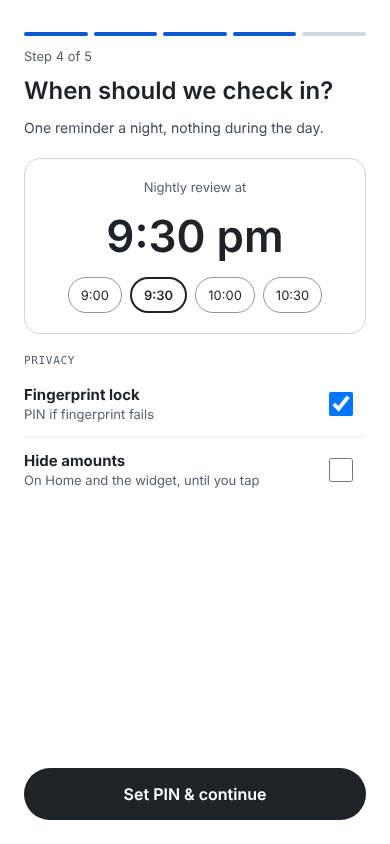
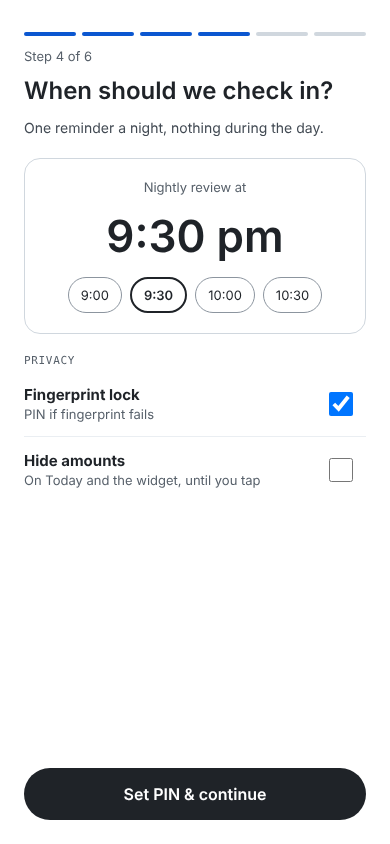
Wire unreachable reused screens and fix wording gaps
Budgets, Subscriptions, Spending map, Someone else paid, Settle up,
reminder preview, trip settle-up and Ask now open from v2 buttons.
Onboarding shows 6 steps, reused screens say Today instead of Home,
Filters use the Mine/Split/Not mine wording, and sample data that
contradicted other screens is corrected.

Claude-Session: https://claude.ai/code/session_019TWJhnqC3Tqk1LrQsxqSPf

diff --git a/expense-tracker/wireframes/v2/V2-Month-Spend.html b/expense-tracker/wireframes/v2/V2-Month-Spend.html
@@ -28,7 +28,7 @@ a{color:#0B57D0}a:hover{color:#08408F}
     </div>
 
     <div style="background: #FFFFFF; border: 1px solid #D0D7DE; border-radius: 16px; padding: 4px 14px; display: flex; flex-direction: column">
-      <div style="display: flex; justify-content: space-between; align-items: center; min-height: 48px"><span role="tablist" aria-label="Group by" style="display: flex; background: #EAEEF2; border-radius: 10px; padding: 3px; gap: 3px"><button type="button" role="tab" aria-selected="true" style="min-height: 40px; padding: 0 10px; border-radius: 8px; border: none; background: #FFFFFF; font: inherit; font-size: 13px; font-weight: 600; color: #1F2328">Category</button><button type="button" role="tab" aria-selected="false" style="min-height: 40px; padding: 0 10px; border-radius: 8px; border: none; background: transparent; font: inherit; font-size: 13px; color: #424A53">Merchant</button><button type="button" role="tab" aria-selected="false" style="min-height: 40px; padding: 0 10px; border-radius: 8px; border: none; background: transparent; font: inherit; font-size: 13px; color: #424A53">Account</button></span><button type="button" style="min-height: 44px; padding: 0 4px; border: none; background: transparent; font: inherit; font-size: 13px; font-weight: 600; color: #0B57D0">Edit budgets</button></div>
+      <div style="display: flex; justify-content: space-between; align-items: center; min-height: 48px"><span role="tablist" aria-label="Group by" style="display: flex; background: #EAEEF2; border-radius: 10px; padding: 3px; gap: 3px"><button type="button" role="tab" aria-selected="true" style="min-height: 40px; padding: 0 10px; border-radius: 8px; border: none; background: #FFFFFF; font: inherit; font-size: 13px; font-weight: 600; color: #1F2328">Category</button><button type="button" role="tab" aria-selected="false" style="min-height: 40px; padding: 0 10px; border-radius: 8px; border: none; background: transparent; font: inherit; font-size: 13px; color: #424A53">Merchant</button><button type="button" role="tab" aria-selected="false" style="min-height: 40px; padding: 0 10px; border-radius: 8px; border: none; background: transparent; font: inherit; font-size: 13px; color: #424A53">Account</button></span><a href="../reused-v1/Budgets.html" style="min-height: 44px; padding: 0 4px; border: none; background: transparent; font-size: 13px; font-weight: 600; color: #0B57D0; box-sizing: border-box; display: flex; align-items: center; justify-content: center; text-decoration: none">Edit budgets</a></div>
       <a href="V2-Money.html" style="display: flex; flex-direction: column; gap: 6px; min-height: 56px; justify-content: center; border-top: 1px solid #EAEEF2; color: #1F2328; text-decoration: none">
         <span style="display: flex; justify-content: space-between; font-size: 14px"><span style="font-weight: 600">Rent &amp; home</span><span>₹[x] · 38%</span></span>
         <span style="height: 8px; border-radius: 4px; background: #EAEEF2; display: flex"><span style="width: 38%; border-radius: 4px; background: #1F2328"></span></span>
@@ -53,8 +53,8 @@ a{color:#0B57D0}a:hover{color:#08408F}
     </div>
 
     <div style="display: grid; grid-template-columns: repeat(2, minmax(0, 1fr)); gap: 8px">
-      <button type="button" style="min-height: 56px; border-radius: 14px; background: #FFFFFF; border: 1px solid #D0D7DE; font: inherit; font-size: 14px; font-weight: 600; color: #1F2328">Subscriptions · [N]</button>
-      <button type="button" style="min-height: 56px; border-radius: 14px; background: #FFFFFF; border: 1px solid #D0D7DE; font: inherit; font-size: 14px; font-weight: 600; color: #1F2328">On the map</button>
+      <a href="../reused-v1/Recurring.html" style="min-height: 56px; border-radius: 14px; background: #FFFFFF; border: 1px solid #D0D7DE; font-size: 14px; font-weight: 600; color: #1F2328; box-sizing: border-box; display: flex; align-items: center; justify-content: center; text-decoration: none">Subscriptions · [N]</a>
+      <a href="../reused-v1/Spend-Map.html" style="min-height: 56px; border-radius: 14px; background: #FFFFFF; border: 1px solid #D0D7DE; font-size: 14px; font-weight: 600; color: #1F2328; box-sizing: border-box; display: flex; align-items: center; justify-content: center; text-decoration: none">On the map</a>
     </div>
   </div>
 

diff --git a/expense-tracker/wireframes/reused-v1/Txn-Filters.html b/expense-tracker/wireframes/reused-v1/Txn-Filters.html
@@ -51,13 +51,13 @@ a{color:#0B57D0}a:hover{color:#08408F}
       </div>
     </div>
     <div style="display: flex; flex-direction: column; gap: 8px">
-      <span style="font-size: 13px; font-weight: 600">Review status</span>
+      <span style="font-size: 13px; font-weight: 600">Answer</span>
       <div style="display: flex; flex-wrap: wrap; gap: 6px">
-        <button type="button" style="height: 34px; padding: 0 12px; border-radius: 17px; border: 1px solid #8C959F; background: #FFFFFF; font: inherit; font-size: 13px; color: #1F2328">To review</button>
-        <button type="button" style="height: 34px; padding: 0 12px; border-radius: 17px; border: 1px solid #8C959F; background: #FFFFFF; font: inherit; font-size: 13px; color: #1F2328">Only me</button>
+        <button type="button" style="height: 34px; padding: 0 12px; border-radius: 17px; border: 1px solid #8C959F; background: #FFFFFF; font: inherit; font-size: 13px; color: #1F2328">Unanswered</button>
+        <button type="button" style="height: 34px; padding: 0 12px; border-radius: 17px; border: 1px solid #8C959F; background: #FFFFFF; font: inherit; font-size: 13px; color: #1F2328">Mine</button>
         <button type="button" style="height: 34px; padding: 0 12px; border-radius: 17px; border: 1px solid #8C959F; background: #FFFFFF; font: inherit; font-size: 13px; color: #1F2328">Split</button>
-        <button type="button" style="height: 34px; padding: 0 12px; border-radius: 17px; border: 1px solid #8C959F; background: #FFFFFF; font: inherit; font-size: 13px; color: #1F2328">Ignored</button>
-        <button type="button" style="height: 34px; padding: 0 12px; border-radius: 17px; border: 1px solid #8C959F; background: #FFFFFF; font: inherit; font-size: 13px; color: #1F2328">Self-transfer</button>
+        <button type="button" style="height: 34px; padding: 0 12px; border-radius: 17px; border: 1px solid #8C959F; background: #FFFFFF; font: inherit; font-size: 13px; color: #1F2328">Not mine</button>
+        <button type="button" style="height: 34px; padding: 0 12px; border-radius: 17px; border: 1px solid #8C959F; background: #FFFFFF; font: inherit; font-size: 13px; color: #1F2328">Between my accounts</button>
         <button type="button" style="height: 34px; padding: 0 12px; border-radius: 17px; border: 1px solid #8C959F; background: #FFFFFF; font: inherit; font-size: 13px; color: #1F2328">Failed</button>
       </div>
     </div>
@@ -71,7 +71,7 @@ a{color:#0B57D0}a:hover{color:#08408F}
   </div>
 
   <div style="border-top: 1px solid #D0D7DE; padding: 12px 16px 24px">
-    <a href="../v2/V2-Money.html" style="height: 52px; border-radius: 26px; background: #0B57D0; color: #FFFFFF; font-size: 16px; font-weight: 600; display: flex; align-items: center; justify-content: center; text-decoration: none">Show [N] transactions</a>
+    <a href="../v2/V2-Money.html" style="height: 52px; border-radius: 26px; background: #0B57D0; color: #FFFFFF; font-size: 16px; font-weight: 600; display: flex; align-items: center; justify-content: center; text-decoration: none">Show [N] payments</a>
   </div>
 </div>
 </x-dc>

diff --git a/expense-tracker/wireframes/reused-v1/Onb-Import.html b/expense-tracker/wireframes/reused-v1/Onb-Import.html
@@ -21,8 +21,9 @@ a{color:#0B57D0}a:hover{color:#08408F}
       <div style="flex-grow: 1; height: 4px; border-radius: 2px; background: #0B57D0"></div>
       <div style="flex-grow: 1; height: 4px; border-radius: 2px; background: #0B57D0"></div>
       <div style="flex-grow: 1; height: 4px; border-radius: 2px; background: #0B57D0"></div>
+      <div style="flex-grow: 1; height: 4px; border-radius: 2px; background: #0B57D0"></div>
     </div>
-    <div style="font-size: 13px; color: #57606A">Step 5 of 5</div>
+    <div style="font-size: 13px; color: #57606A">Step 6 of 6</div>
     <h1 style="margin: 0; font-size: 24px; font-weight: 600">Bring in past payments?</h1>
     <p style="margin: 0; font-size: 14px; color: #424A53; line-height: 1.5">Reads bank SMS already on this phone. Gives you history and finds your accounts on day one.</p>
   </div>
@@ -42,11 +43,11 @@ a{color:#0B57D0}a:hover{color:#08408F}
       <div style="display: flex; flex-direction: column; gap: 2px"><span style="font-size: 18px; font-weight: 600">[N]</span><span style="font-size: 12px; color: #57606A">accounts &amp; cards</span></div>
       <div style="display: flex; flex-direction: column; gap: 2px"><span style="font-size: 18px; font-weight: 600">[N]</span><span style="font-size: 12px; color: #57606A">couldn't read</span></div>
     </div>
-    <div style="font-size: 12px; color: #424A53; line-height: 1.4">Unreadable SMS go to the Unparsed list. Past items are saved as history, so they won't land in tonight's review.</div>
+    <div style="font-size: 12px; color: #424A53; line-height: 1.4">Unreadable SMS go to Money › SMS not used › Couldn't read. Past items are saved as history, so they won't land in tonight's review.</div>
   </div>
 
   <div style="flex-grow: 1"></div>
-  <a href="../v2/V2-Today.html" style="height: 52px; border-radius: 26px; background: #1F2328; color: #FFFFFF; font-size: 16px; font-weight: 600; display: flex; align-items: center; justify-content: center; text-decoration: none">Go to Home</a>
+  <a href="../v2/V2-Today.html" style="height: 52px; border-radius: 26px; background: #1F2328; color: #FFFFFF; font-size: 16px; font-weight: 600; display: flex; align-items: center; justify-content: center; text-decoration: none">Go to Today</a>
   <div style="font-size: 12px; color: #57606A; text-align: center">Import keeps running if you leave this screen.</div>
 </div>
 </x-dc>

diff --git a/expense-tracker/wireframes/v2/V2-Received-Sheet.html b/expense-tracker/wireframes/v2/V2-Received-Sheet.html
@@ -32,7 +32,7 @@ a{color:#0B57D0}a:hover{color:#08408F}
     <fieldset style="border: none; margin: 0; padding: 0; display: flex; flex-direction: column; gap: 8px">
       <legend style="position: absolute; width: 1px; height: 1px; overflow: hidden">What is this money</legend>
       <label style="min-height: 64px; border-radius: 14px; border: 2px solid #1F2328; padding: 8px 14px; box-sizing: border-box; display: flex; align-items: center; gap: 12px"><input type="radio" name="rx" checked style="width: 22px; height: 22px; margin: 0">
-        <span style="display: flex; flex-direction: column; gap: 2px"><strong style="font-size: 15px">Paying me back <span style="font-size: 12px; font-weight: 600; background: #EAEEF2; border-radius: 4px; padding: 1px 6px">suggested</span></strong><span style="font-size: 13px; color: #424A53">Rohit owed ₹800 (rent share) → ₹300 left. Not income.</span></span></label>
+        <span style="display: flex; flex-direction: column; gap: 2px"><strong style="font-size: 15px">Paying me back <span style="font-size: 12px; font-weight: 600; background: #EAEEF2; border-radius: 4px; padding: 1px 6px">suggested</span></strong><span style="font-size: 13px; color: #424A53">Rohit owed ₹800 (electricity share) → ₹300 left. Not income.</span></span></label>
       <label style="min-height: 56px; border-radius: 14px; border: 1px solid #8C959F; padding: 8px 14px; box-sizing: border-box; display: flex; align-items: center; gap: 12px"><input type="radio" name="rx" style="width: 22px; height: 22px; margin: 0">
         <span style="display: flex; flex-direction: column; gap: 2px"><strong style="font-size: 15px">Rent I collect</strong><span style="font-size: 13px; color: #424A53">Pick tenant and month · counts as income</span></span></label>
       <label style="min-height: 56px; border-radius: 14px; border: 1px solid #8C959F; padding: 8px 14px; box-sizing: border-box; display: flex; align-items: center; gap: 12px"><input type="radio" name="rx" style="width: 22px; height: 22px; margin: 0">

diff --git a/expense-tracker/wireframes/v2/V2-Money.html b/expense-tracker/wireframes/v2/V2-Money.html
@@ -28,7 +28,8 @@ a{color:#0B57D0}a:hover{color:#08408F}
     </div>
     <label style="display: flex; align-items: center; gap: 8px; min-height: 48px; border-radius: 24px; background: #F6F8FA; border: 1px solid #8C959F; padding: 0 16px; box-sizing: border-box">
       <svg width="18" height="18" viewBox="0 0 24 24" fill="none" stroke="#424A53" stroke-width="2" stroke-linecap="round" aria-hidden="true"><circle cx="11" cy="11" r="6"></circle><path d="M20 20l-4.5-4.5"></path></svg>
-      <input type="search" placeholder="Search payments, people, amount" aria-label="Search" style="flex-grow: 1; border: none; background: transparent; font: inherit; font-size: 15px; color: #1F2328; outline: none">
+      <input type="search" placeholder="Search payments, people, ₹" aria-label="Search" style="flex-grow: 1; border: none; background: transparent; font: inherit; font-size: 15px; color: #1F2328; outline: none">
+      <a href="../reused-v1/AI-Chat.html" aria-label="Ask a question about your money" style="min-height: 40px; padding: 0 12px; border-radius: 20px; background: #FFFFFF; border: 1px solid #8C959F; box-sizing: border-box; display: flex; align-items: center; font-size: 13px; font-weight: 600; color: #1F2328; text-decoration: none; flex-shrink: 0">Ask</a>
     </label>
     <div style="display: flex; gap: 8px; overflow: hidden" aria-label="Accounts">
       <button type="button" aria-pressed="true" style="min-height: 48px; padding: 0 14px; border-radius: 12px; border: 2px solid #1F2328; background: #FFFFFF; font: inherit; font-size: 13px; font-weight: 600; color: #1F2328; flex-shrink: 0; display: flex; flex-direction: column; align-items: flex-start; justify-content: center"><span>You have</span><span style="font-size: 12px; font-weight: 400; color: #57606A">₹[have] · all</span></button>

diff --git a/expense-tracker/wireframes/v2/V2-Person-Sheet.html b/expense-tracker/wireframes/v2/V2-Person-Sheet.html
@@ -29,8 +29,8 @@ a{color:#0B57D0}a:hover{color:#08408F}
     <div style="border: 2px solid #1F2328; border-radius: 16px; padding: 14px; display: flex; flex-direction: column; gap: 10px">
       <div style="display: flex; justify-content: space-between; align-items: baseline"><span style="font-size: 14px">Sana owes you</span><strong style="font-size: 26px">₹[x]</strong></div>
       <div style="display: grid; grid-template-columns: repeat(2, minmax(0, 1fr)); gap: 8px">
-        <button type="button" style="min-height: 48px; border-radius: 24px; border: none; background: #0B57D0; color: #FFFFFF; font: inherit; font-size: 14px; font-weight: 600">WhatsApp reminder</button>
-        <button type="button" style="min-height: 48px; border-radius: 24px; border: 2px solid #1F2328; background: #FFFFFF; font: inherit; font-size: 14px; font-weight: 600; color: #1F2328">Record payment</button>
+        <a href="../reused-v1/Person-Detail.html" style="min-height: 48px; border-radius: 24px; border: none; background: #0B57D0; color: #FFFFFF; font-size: 14px; font-weight: 600; box-sizing: border-box; display: flex; align-items: center; justify-content: center; text-decoration: none">WhatsApp reminder</a>
+        <a href="../reused-v1/Settle.html" style="min-height: 48px; border-radius: 24px; border: 2px solid #1F2328; background: #FFFFFF; font-size: 14px; font-weight: 600; color: #1F2328; box-sizing: border-box; display: flex; align-items: center; justify-content: center; text-decoration: none">Record payment</a>
       </div>
       <span style="font-size: 12px; color: #424A53">A UPI payment from their UPI ID is matched and offered as settled automatically.</span>
     </div>

diff --git a/expense-tracker/wireframes/v2/V2-Settings.html b/expense-tracker/wireframes/v2/V2-Settings.html
@@ -42,7 +42,7 @@ a{color:#0B57D0}a:hover{color:#08408F}
       <div style="padding: 10px 0 2px; font-size: 12px; font-weight: 600; color: #57606A">PRIVACY &amp; DATA</div>
       <a href="../reused-v1/Lock.html" style="display: flex; justify-content: space-between; align-items: center; min-height: 48px; border-bottom: 1px solid #EAEEF2; font-size: 15px; color: #1F2328; text-decoration: none"><span>App lock</span><span style="color: #424A53">Fingerprint + PIN ›</span></a>
       <label style="display: flex; justify-content: space-between; align-items: center; min-height: 48px; border-bottom: 1px solid #EAEEF2; font-size: 15px"><span>Hide amounts</span><input type="checkbox" role="switch" style="width: 44px; height: 24px"></label>
-      <a href="V2-Backup.html" style="display: flex; justify-content: space-between; align-items: center; min-height: 48px; border-bottom: 1px solid #EAEEF2; font-size: 15px; color: #1F2328; text-decoration: none"><span>Backup, restore, export</span><span style="color: #424A53">Last: Sun ›</span></a>
+      <a href="V2-Backup.html" style="display: flex; justify-content: space-between; align-items: center; min-height: 48px; border-bottom: 1px solid #EAEEF2; font-size: 15px; color: #1F2328; text-decoration: none"><span>Backup, restore, export</span><span style="color: #424A53">Last: today ›</span></a>
       <a href="../reused-v1/Downloads.html" style="display: flex; justify-content: space-between; align-items: center; min-height: 48px; font-size: 15px; color: #1F2328; text-decoration: none"><span>AI assistant &amp; offline map</span><span style="color: #424A53">Optional ›</span></a>
     </div>
   </div>

diff --git a/expense-tracker/wireframes/reused-v1/Onb-Review-Lock.html b/expense-tracker/wireframes/reused-v1/Onb-Review-Lock.html
@@ -21,8 +21,9 @@ a{color:#0B57D0}a:hover{color:#08408F}
       <div style="flex-grow: 1; height: 4px; border-radius: 2px; background: #0B57D0"></div>
       <div style="flex-grow: 1; height: 4px; border-radius: 2px; background: #0B57D0"></div>
       <div style="flex-grow: 1; height: 4px; border-radius: 2px; background: #D0D7DE"></div>
+      <div style="flex-grow: 1; height: 4px; border-radius: 2px; background: #D0D7DE"></div>
     </div>
-    <div style="font-size: 13px; color: #57606A">Step 4 of 5</div>
+    <div style="font-size: 13px; color: #57606A">Step 4 of 6</div>
     <h1 style="margin: 0; font-size: 24px; font-weight: 600">When should we check in?</h1>
     <p style="margin: 0; font-size: 14px; color: #424A53; line-height: 1.5">One reminder a night, nothing during the day.</p>
   </div>
@@ -45,7 +46,7 @@ a{color:#0B57D0}a:hover{color:#08408F}
       <input type="checkbox" role="switch" checked style="width: 44px; height: 24px">
     </label>
     <label style="display: flex; align-items: center; gap: 12px; padding: 14px 0">
-      <span style="flex-grow: 1; display: flex; flex-direction: column; gap: 2px"><strong style="font-size: 15px">Hide amounts</strong><span style="font-size: 13px; color: #57606A">On Home and the widget, until you tap</span></span>
+      <span style="flex-grow: 1; display: flex; flex-direction: column; gap: 2px"><strong style="font-size: 15px">Hide amounts</strong><span style="font-size: 13px; color: #57606A">On Today and the widget, until you tap</span></span>
       <input type="checkbox" role="switch" style="width: 44px; height: 24px">
     </label>
   </div>

diff --git a/expense-tracker/wireframes/reused-v1/Onb-Permissions.html b/expense-tracker/wireframes/reused-v1/Onb-Permissions.html
@@ -21,8 +21,9 @@ a{color:#0B57D0}a:hover{color:#08408F}
       <div style="flex-grow: 1; height: 4px; border-radius: 2px; background: #D0D7DE"></div>
       <div style="flex-grow: 1; height: 4px; border-radius: 2px; background: #D0D7DE"></div>
       <div style="flex-grow: 1; height: 4px; border-radius: 2px; background: #D0D7DE"></div>
+      <div style="flex-grow: 1; height: 4px; border-radius: 2px; background: #D0D7DE"></div>
     </div>
-    <div style="font-size: 13px; color: #57606A">Step 1 of 5</div>
+    <div style="font-size: 13px; color: #57606A">Step 1 of 6</div>
     <h1 style="margin: 0; font-size: 24px; font-weight: 600">What the app needs</h1>
     <p style="margin: 0; font-size: 14px; color: #424A53; line-height: 1.5">Each one is used only on this phone.</p>
   </div>
@@ -53,7 +54,7 @@ a{color:#0B57D0}a:hover{color:#08408F}
   </div>
 
   <div style="flex-grow: 1"></div>
-  <div style="font-size: 12px; color: #57606A; padding: 0 8px; line-height: 1.4">Skip any you like. Missing ones show a warning on Home and can be fixed in Settings › Permission health.</div>
+  <div style="font-size: 12px; color: #57606A; padding: 0 8px; line-height: 1.4">Skip any you like. Missing ones show a warning on Today and can be fixed in Settings › Permission health.</div>
   <a href="Onb-Banks.html" style="height: 52px; border-radius: 26px; background: #1F2328; color: #FFFFFF; font-size: 16px; font-weight: 600; display: flex; align-items: center; justify-content: center; text-decoration: none">Continue</a>
 </div>
 </x-dc>

diff --git a/expense-tracker/wireframes/v2/V2-Trip.html b/expense-tracker/wireframes/v2/V2-Trip.html
@@ -42,7 +42,7 @@ a{color:#0B57D0}a:hover{color:#08408F}
     </div>
 
     <div style="background: #F6F8FA; border-radius: 14px; padding: 12px 14px; display: flex; flex-direction: column; gap: 8px">
-      <strong style="font-size: 15px">To settle: 3 transfers</strong>
+      <a href="../reused-v1/Trip-Settle.html" style="min-height: 44px; display: flex; align-items: center; justify-content: space-between; color: #1F2328; text-decoration: none"><strong style="font-size: 15px">To settle: 3 transfers</strong><span style="font-size: 14px; font-weight: 600; color: #0B57D0">Details ›</span></a>
       <div style="display: flex; justify-content: space-between; font-size: 14px; min-height: 32px; align-items: center"><span>You → Rahul</span><strong>₹[x]</strong></div>
       <div style="display: flex; justify-content: space-between; font-size: 14px; min-height: 32px; align-items: center"><span>Aman → You</span><strong>₹[x]</strong></div>
       <div style="display: flex; justify-content: space-between; font-size: 14px; min-height: 32px; align-items: center"><span>Priya → Rahul</span><strong>₹[x]</strong></div>

diff --git a/expense-tracker/wireframes/v2/V2-Split-Sheet.html b/expense-tracker/wireframes/v2/V2-Split-Sheet.html
@@ -31,7 +31,7 @@ a{color:#0B57D0}a:hover{color:#08408F}
       <span style="font-size: 14px; font-weight: 600">Who paid?</span>
       <div style="display: grid; grid-template-columns: repeat(2, minmax(0, 1fr)); gap: 8px">
         <button type="button" aria-pressed="true" style="min-height: 48px; border-radius: 24px; border: 2px solid #1F2328; background: #1F2328; color: #FFFFFF; font: inherit; font-size: 15px; font-weight: 600">I paid</button>
-        <button type="button" aria-pressed="false" style="min-height: 48px; border-radius: 24px; border: 1px solid #8C959F; background: #FFFFFF; font: inherit; font-size: 15px; color: #1F2328">Someone else paid</button>
+        <a href="../reused-v1/Split-Paid-By.html" style="min-height: 48px; border-radius: 24px; border: 1px solid #8C959F; background: #FFFFFF; font-size: 15px; color: #1F2328; box-sizing: border-box; display: flex; align-items: center; justify-content: center; text-decoration: none">Someone else paid</a>
       </div>
     </div>
 

diff --git a/expense-tracker/wireframes/v2/V2-Reimburse.html b/expense-tracker/wireframes/v2/V2-Reimburse.html
@@ -21,7 +21,7 @@ a{color:#0B57D0}a:hover{color:#08408F}
       <div style="flex-grow: 1; display: flex; flex-direction: column; gap: 2px">
         <span style="font-size: 13px; color: #424A53">Money received</span>
         <span style="font-size: 28px; font-weight: 700">+₹3,240</span>
-        <span style="font-size: 13px; color: #424A53">From Acme Pvt Ltd (employer) · NEFT · 28 Oct</span>
+        <span style="font-size: 13px; color: #424A53">From Acme Pvt Ltd (employer) · NEFT · 23 Oct</span>
       </div>
       <a href="V2-Today.html" aria-label="Close" style="width: 48px; height: 48px; display: flex; align-items: center; justify-content: center">
         <svg width="22" height="22" viewBox="0 0 24 24" fill="none" stroke="#1F2328" stroke-width="2" stroke-linecap="round" aria-hidden="true"><path d="M6 6l12 12M18 6L6 18"></path></svg>
